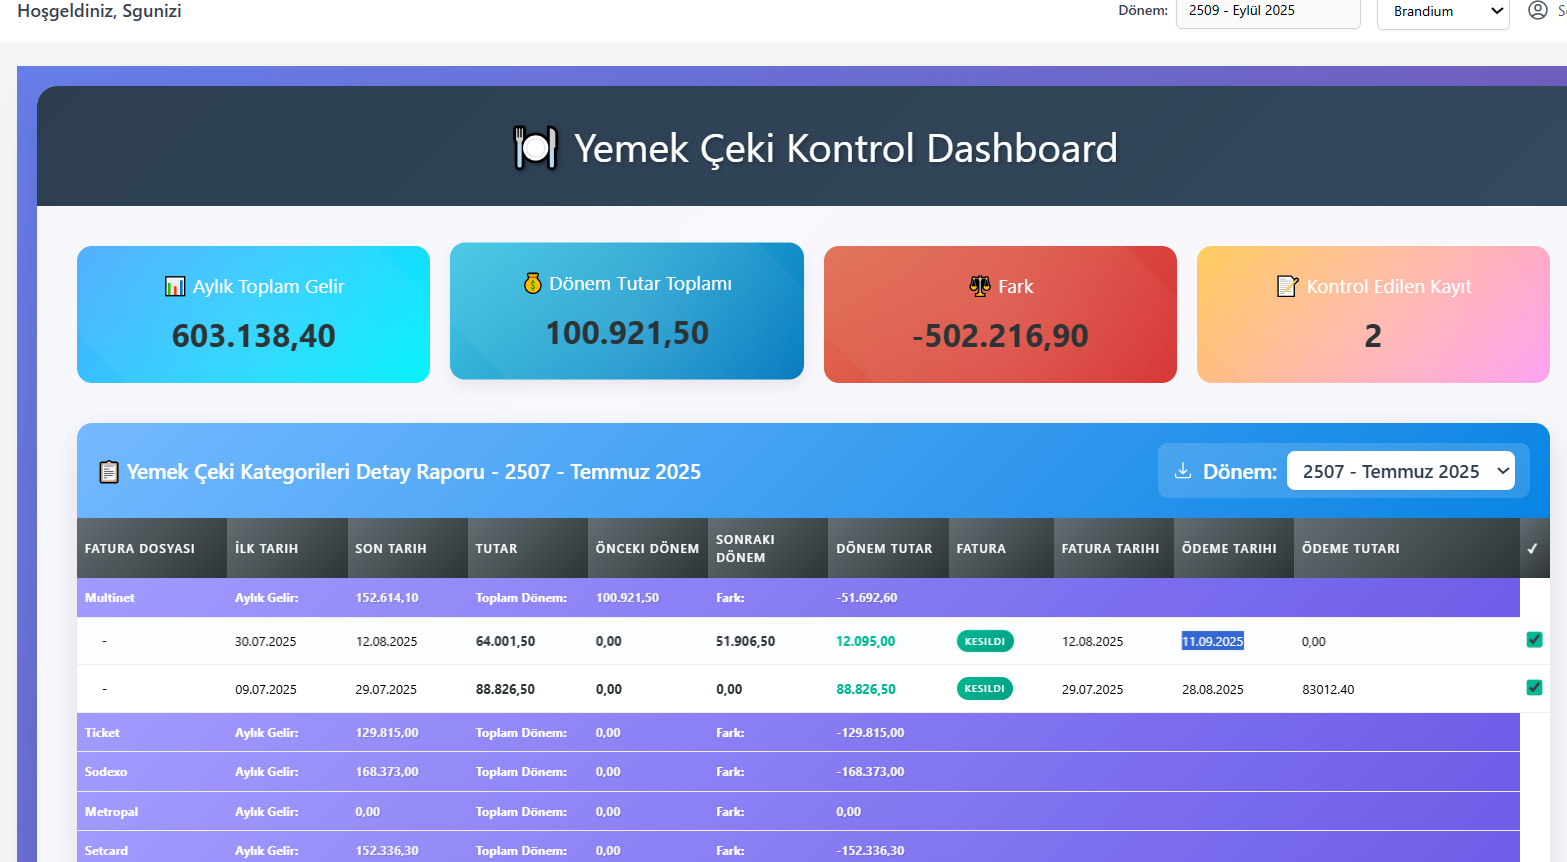
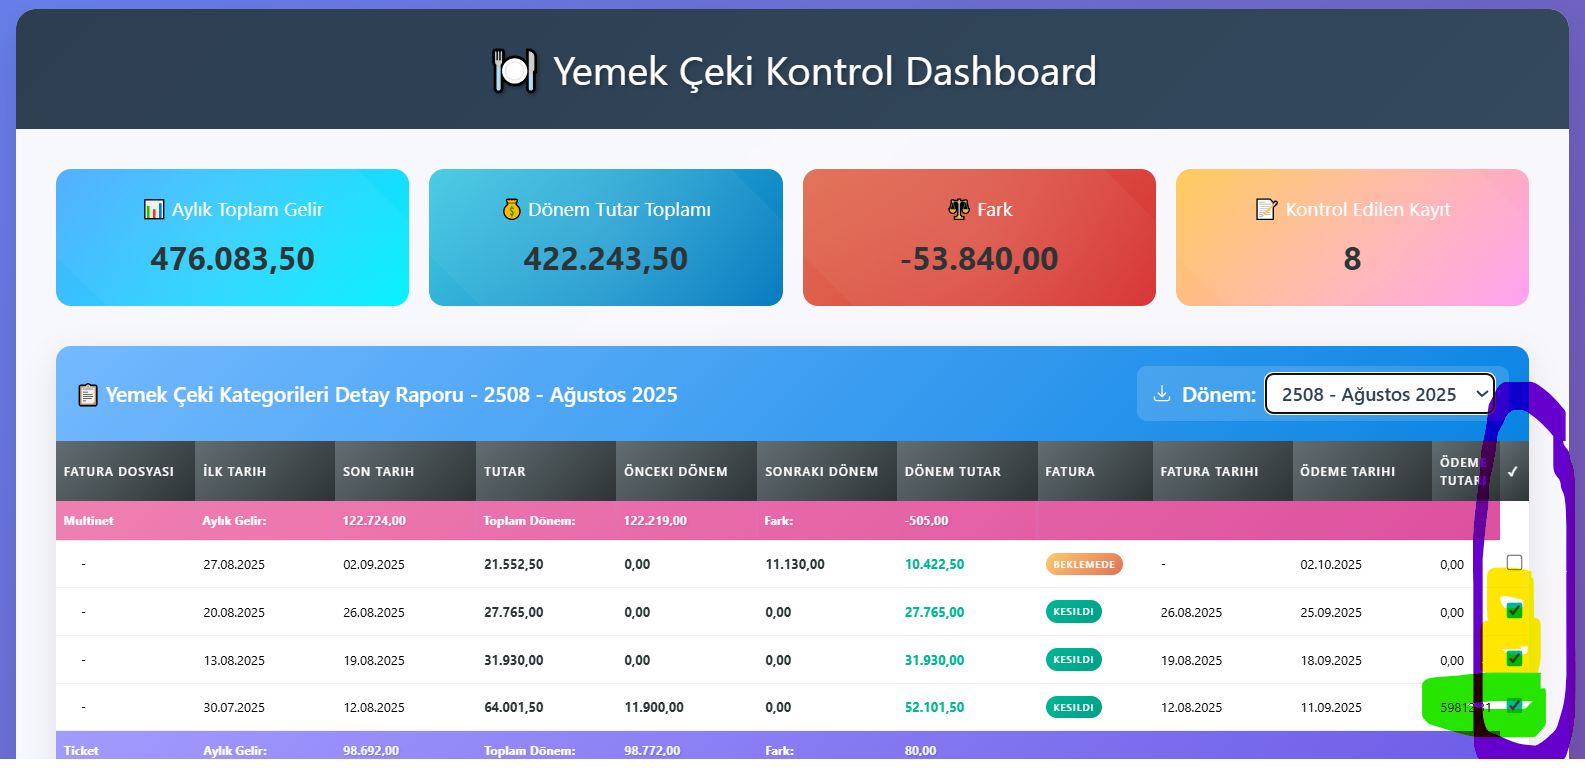
Fix:Yemek Çeki Ödeme Tutarı getirme 4

diff --git a/CopyCat/pages/YemekCekiKontrolDashboard.tsx b/CopyCat/pages/YemekCekiKontrolDashboard.tsx
@@ -461,7 +461,7 @@ export const YemekCekiKontrolDashboardPage: React.FC = () => {
                                                 <td>{cek.faturaStatus === 'Kesildi' ? parseDate(cek.Son_Tarih)?.toLocaleDateString('tr-TR') : '-'}</td>
                                                 <td>{cek.Odeme_Tarih && parseDate(cek.Odeme_Tarih) ? parseDate(cek.Odeme_Tarih)!.toLocaleDateString('tr-TR') : '-'}</td>
                                                 <td>{cek.Odeme_Tarih && cek.odemeTutari !== undefined ? formatCurrency(cek.odemeTutari) : '-'}</td>
-                                                <td><input type="checkbox" className="checkbox" defaultChecked={cek.faturaStatus === 'Kesildi'} /></td>
+                                                <td><input type="checkbox" className="checkbox" defaultChecked={cek.odemeTutari > 0} /></td>
                                             </tr>
                                         ))}
                                     </React.Fragment>
